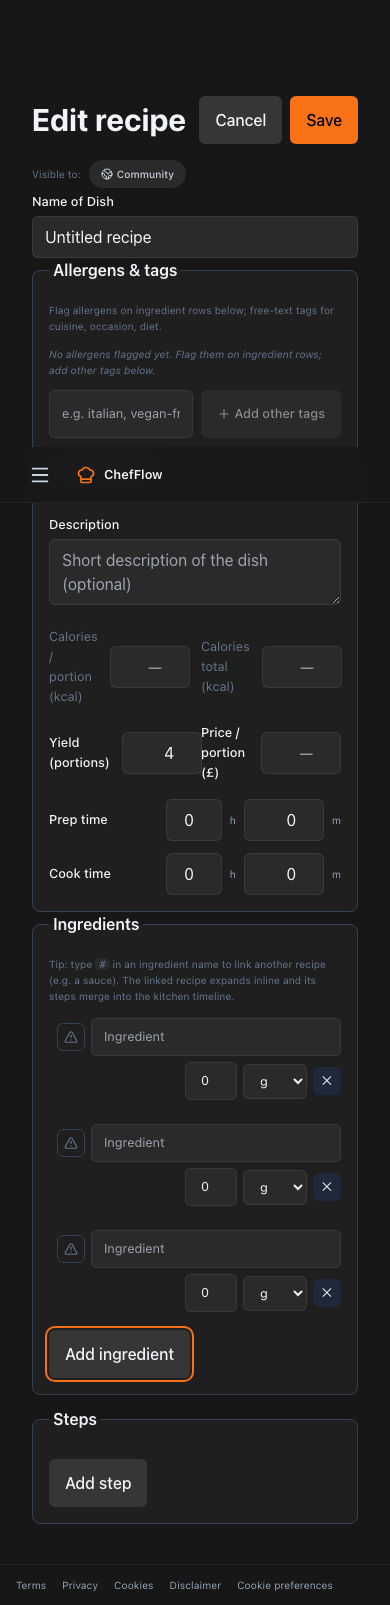
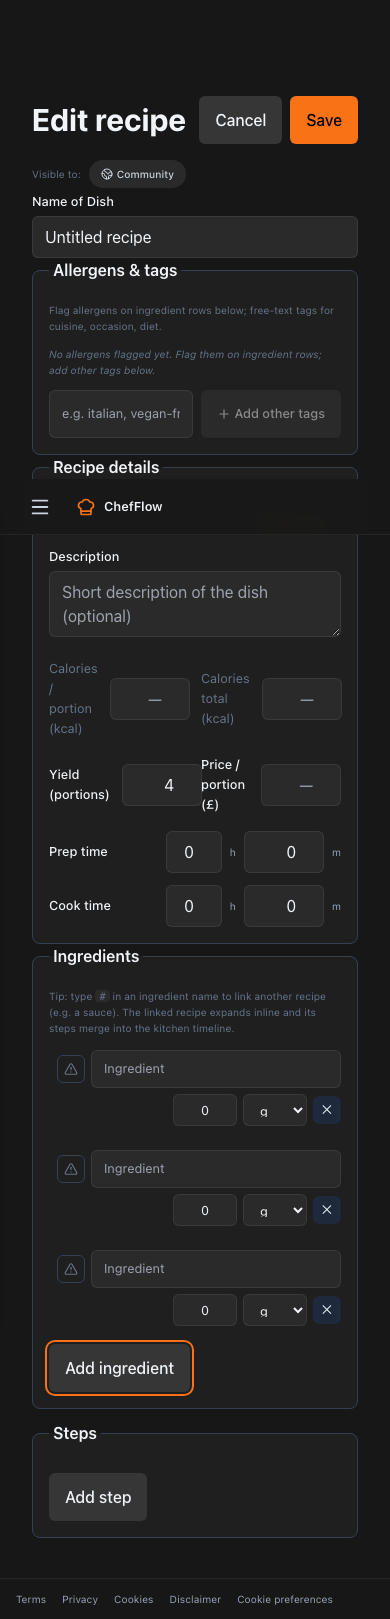
ui(recipe-editor): T20 — AI button into body, amount+unit symmetry, taller steps
Three Recipe-editor follow-ups to T19:

1. AI button moved OUT of the <legend> and into its own row INSIDE
   the section body (right-aligned, above Description). T19 had
   inlined the button in <legend> to preserve the border-cut-through,
   but the resulting visual glued the button to the chrome rather
   than reading as in-content actionable. Legend now reverts to
   plain "Recipe details" + still slices the top border (direct
   first child of <fieldset>); the AI link sits as a dedicated row
   below it.

2. Ingredient amount + unit inputs share an identical 64×32 box.
   Width 52 → 64 on amount; explicit height 32px on both (the
   <select>'s native chrome renders slightly taller than the text
   input at the same py-1.5, so an explicit height keeps the pair
   visually symmetric).

3. Step textarea rows={1} → rows={3} gives chefs ~60px of typing
   room for a typical 1-2 sentence kitchen instruction without
   horizontal scroll. resize-y kept so chefs can drag for more. The
   "1." index span flips to pt-1.5 + items-start on the row so it
   baseline-aligns with the now-multi-line textarea. Ingredients+
   Steps grid still uses items-stretch (T17) so column heights
   balance regardless of step length.

Tests: SPA 687 unchanged. Build clean. Verified via re-captured
docs/ux-audit-2026-06-02/03-recipe-editor-desktop.png.

diff --git a/chefflow/src/ui/pages/RecipeEditor.tsx b/chefflow/src/ui/pages/RecipeEditor.tsx
@@ -464,15 +464,14 @@ export default function RecipeEditor() {
             "Analyse with AI" button at the top that runs calorie
             analysis + description generation in parallel. */}
         <fieldset className="rounded-lg border border-slate-200 dark:border-slate-700 p-4 bg-white dark:bg-kitchen-ink space-y-4">
-          {/* T19 — <legend> as DIRECT child of <fieldset> so the browser's
-              native "legend cuts through the top border" behaviour fires.
-              T17 had wrapped the legend in a <div> to inline the AI
-              button next to the title, but that wrapper made the legend
-              a non-direct child and broke the border-cut. inline-flex
-              on the legend itself keeps the AI button positioned inline
-              without losing the cut-through. */}
-          <legend className="text-base font-semibold px-1 inline-flex items-baseline gap-3 flex-wrap">
-            <span>Recipe details</span>
+          {/* T19/T20 — <legend> stays a direct child of <fieldset> so the
+              border-cut-through fires. T19 had stuffed the AI button
+              inside the legend; T20 moves it to its own row inside the
+              section body (right-aligned, above the Description), so
+              the legend chrome reads cleanly + the AI control reads as
+              actionable in-content rather than glued to the border. */}
+          <legend className="text-base font-semibold px-1">Recipe details</legend>
+          <div className="flex justify-end">
             <button
               type="button"
               onClick={() => requireAuth(() => void handleAnalyzeAll())}
@@ -484,7 +483,7 @@ export default function RecipeEditor() {
               <Sparkles className={`h-3 w-3 ${aiBusy ? 'animate-pulse' : ''}`} aria-hidden="true" />
               {aiBusy ? 'Analysing…' : 'Analyse with AI'}
             </button>
-          </legend>
+          </div>
 
           {!hasLlmAccess && (
             <p className="text-xs text-slate-500">

diff --git a/chefflow/src/ui/components/IngredientRow.tsx b/chefflow/src/ui/components/IngredientRow.tsx
@@ -216,25 +216,25 @@ export default function IngredientRow({ index, value, onChange, onRemove, curren
           </div>
         </div>
         <div className="flex items-center justify-end gap-1.5">
-          {/* T18 — explicit pixel widths via inline style override the
-              .input class's `width: 100%` from @apply (which the build
-              order can let win over Tailwind's w-N utilities in some
-              edge cases). Inline style guarantees the exact width
-              regardless of cascade. Amount fits "999"; unit fits
-              "tbsp"/"fl oz" with px-1.5 padding. */}
+          {/* T20 — amount + unit share an identical 64×32 box. Explicit
+              pixel width (vs Tailwind utility) survives the `.input`
+              cascade override; explicit height anchors the select's
+              native chrome (which renders slightly taller than text
+              inputs at the same `py-1.5`) to the same physical size
+              as the amount input. */}
           <input
             type="number"
             step="any"
             value={value.amount}
             onChange={(e) => update('amount', Number(e.target.value))}
-            style={{ width: '52px' }}
+            style={{ width: '64px', height: '32px' }}
             className="input text-sm py-1.5 px-1.5 text-right shrink-0"
             aria-label="Amount"
           />
           <select
             value={value.unit}
             onChange={(e) => update('unit', e.target.value)}
-            style={{ width: '64px' }}
+            style={{ width: '64px', height: '32px' }}
             className="input text-sm py-1.5 px-1.5 shrink-0"
             aria-label="Unit"
           >

diff --git a/chefflow/src/ui/components/StepRow.tsx b/chefflow/src/ui/components/StepRow.tsx
@@ -11,17 +11,18 @@ interface Props {
 export default function StepRow({ index, value, onChange, onRemove }: Props) {
   return (
     <li className="py-1">
-      {/* T16 (d) — single-row textarea matching ingredient name input
-          height (rows={1} + py-1.5, no min-h cap). Chefs can still drag
-          the corner or type to scroll if the step is long; the default
-          height stays uniform with the ingredient column on the left. */}
-      <div className="flex items-center gap-2">
-        <span className="text-sm font-semibold w-6 shrink-0">{index + 1}.</span>
+      {/* T20 — rows={3} gives each step ~60px of typing room (~3 lines
+          of text) so chefs can write a typical kitchen instruction
+          without horizontal scroll. T17's items-stretch on the
+          Ingredients+Steps grid keeps the columns aligned regardless.
+          resize-y stays so the chef can drag for more room. */}
+      <div className="flex items-start gap-2">
+        <span className="text-sm font-semibold w-6 shrink-0 pt-1.5">{index + 1}.</span>
         <textarea
           value={value.text}
           onChange={(e) => onChange({ ...value, text: e.target.value })}
           className="input flex-1 text-sm py-1.5 resize-y"
-          rows={1}
+          rows={3}
           aria-label={`Step ${index + 1} text`}
           placeholder="Describe this step…"
         />
